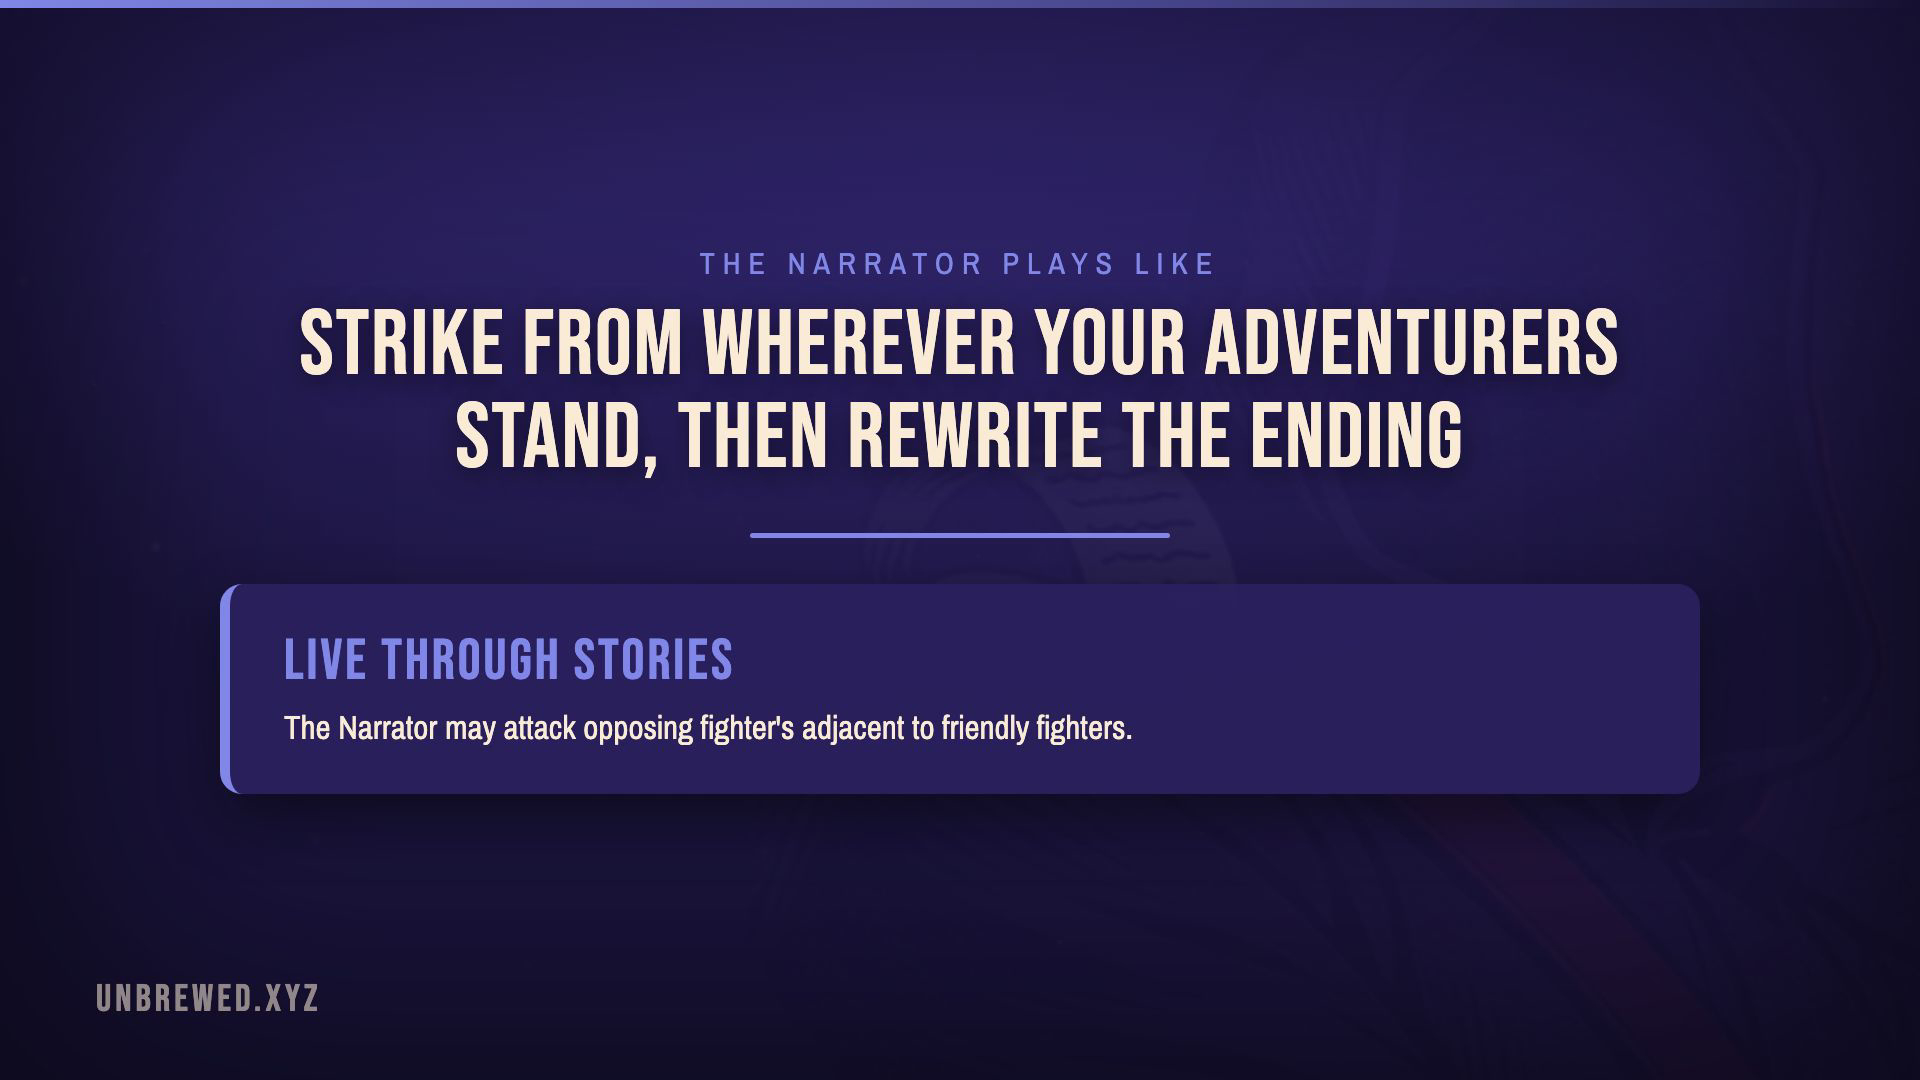
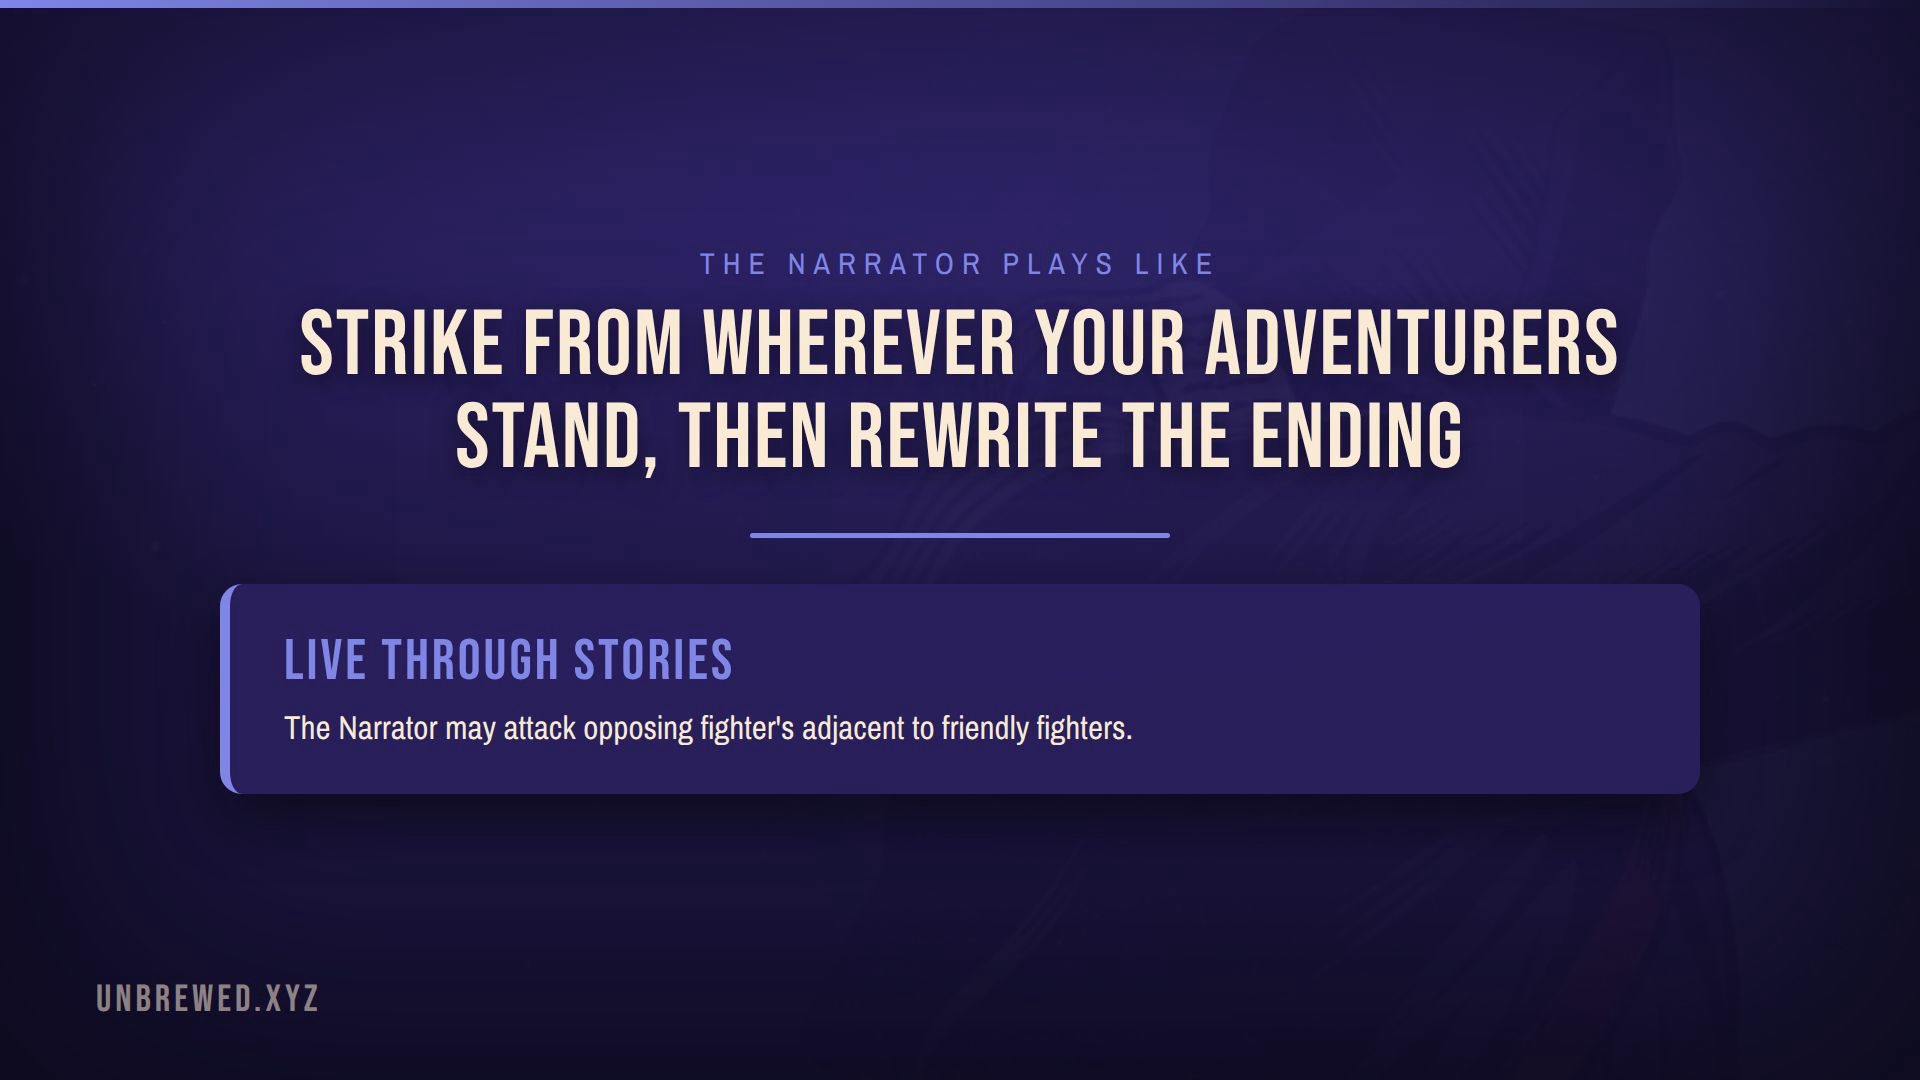
unbrewed-p2p-857: The Narrator — correct hero/sidekick token art from the-unmatched.club (#858)
* unbrewed-p2p-857: re-crop Narrator hero/sidekick token art from the club export

Inforce flagged the #855 tokens (ArtGen pipeline crops) as the wrong art,
so both token webps are re-derived from the-unmatched.club export payload
for hero 13659:

- token-the-narrator.webp (71.3KB): the deck's own Rising Action
  illustration (i.imgur.com/8l65WR1.jpeg, referenced by the club payload
  as the hero's art), hooded Narrator crop, 512x512 webp.
- token-adventurer.webp (64.2KB): same source, the three Adventurers
  climbing crop. Same-source consistency for both tokens; the club's
  dedicated character/sidekick renders (character-xb-*.webp,
  deck-sidekicks/*.jpg) 404 in the supabase bucket, so the payload's own
  illustration is the canonical art inforce pointed at.

Filenames unchanged, so deck_data tokenImageUrls and the rules digest
are untouched: pro:decks:verify all 37 locked, lint/tests/build green.
Board verified live vs the deployed engine; promo re-rendered per
jollygrin's 'will switch and remake video'.

* unbrewed-p2p-857: verification screenshots (board tokens + promo frames)

---------

diff --git a/lib/constants/top-decks.ts b/lib/constants/top-decks.ts
@@ -894,7 +894,11 @@ export const POPULAR_DECKS: PopularDeckMeta[] = [
     // the cardback self-hosted under public/evergreen-decks/art/narrator
     // (#733/#734 plus one payload mirror and the cardback from the deck's
     // appearance block) — repo-relative so the tile renders on localhost and
-    // preview builds.
+    // preview builds. Token art corrected in #857: inforce flagged the #855
+    // crops (ArtGen pipeline run) as the wrong art, so both tokens are now
+    // re-cropped from the deck's own club-export illustration (the Rising
+    // Action art, i.imgur.com/8l65WR1.jpeg, referenced by the club payload).
+    sourceUrl: "https://www.the-unmatched.club/c/heroes/the-narrator.13659",
     id: "5jBEXsA55e",
     name: "The Narrator",
     hero: "The Narrator",
